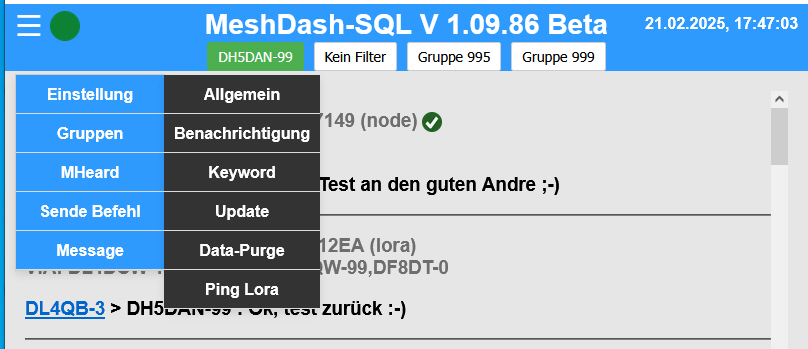
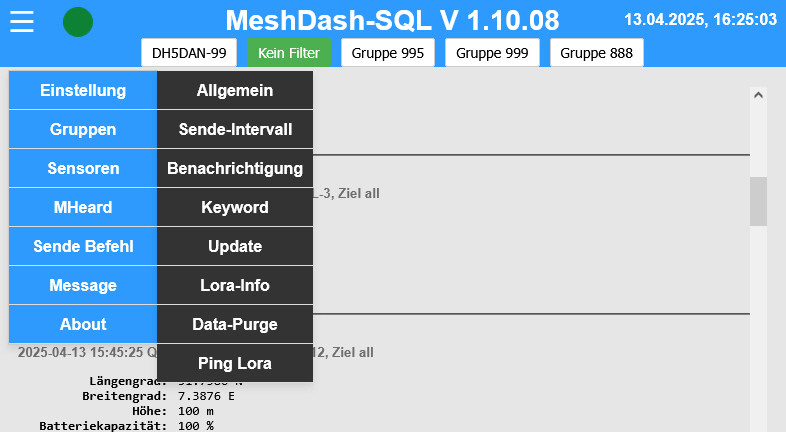
FEATURE Anpassung Redme.md

Changed region(s): [[0.0, 0.0, 1.0, 1.0], [0.3664, 0.6017, 0.9466, 0.6304], [0.9466, 0.4585, 0.9771, 0.5444]]

diff --git a/README.md b/README.md
@@ -14,7 +14,7 @@ auf eine webbasierte Plattform bringen soll.
 ![RELEASE](/docs/front_menu.jpg)
 
 Vornehmlich ist die Applikation für Linux ausgelegt, sie ist aber auch  
-unter Windows lauffähig. Hier muss allerdings schon ein funktionierende Webserver  
+unter Windows lauffähig. Hier muss allerdings schon ein funktionierender Webserver  
 mit aktiven PHP-Modulen die nötigt sind vorhanden sein.  
 Hier läuft die App unter Win10 mit einem Apache und PHP >= 7.4.23.
 
@@ -26,8 +26,9 @@ Einige Funktionen von MeshDash:
 - Soundbenachrichtigungen für eigene Nachrichten
 - Update über die Weboberfläche
 - Senden von Befehlen an den Lora
+- Sensorabfragen mit Schwellwertbenachrichtigung
 
-Das Projekt befindet sich derzeit in der **Beta-Phase**, daher können noch Fehler auftreten.  
+Das Projekt ist mittlerweile aus der **Beta-Phase**, doch es können imer mal noch Fehler auftreten.  
 Falls Probleme auftreten, bitte im Issue-Bereich von GitHub melden,  
 sofern sie nicht schon dort vorhanden sind.
 
@@ -46,12 +47,13 @@ Die Dateien befinden sich unter **Assets** – bitte darauf klicken, um die List
 ![ASSETS](/docs/assets.jpg)
 
 ### In MeshDash ist nun ein Abruf der aktuellen Release-Version möglich.
+![FILES](/docs/update_menu.jpg)
 ![FILES](/docs/50_md_release_version.jpg)
 
 **Für die Installation sind nur folgende Dateien relevant:**  
 Hier mal ein Beispiel:
-- meshdash-sql_V1.09.76.Beta.zip (Das Hauptprogramm)
-- install.sh (Installation-Skript)
+- meshdash-sql_V1.10.10.zip (Das Hauptprogramm)
+- install.sh (Installation-Skript bei Neuinstallation)
 - update.sh (Das Update-Skript ist optional, da Webupdate vorhanden)
 
 ![FILES](/docs/files.jpg)
@@ -65,25 +67,30 @@ Die **Kurzanleitung.pdf** enthält:
 
 - Ein **kurzes User-Manual** mit Screenshots der Weboberfläche und Erklärungen zu den Menüpunkten.
 
-Diese Datei hilft dir, MeshDash schnell zu installieren und zu nutzen.
+Diese Datei hilft dir, MeshDash schnell zu installieren und zu nutzen.  
+Sie wird in regelmässigen Abständen aktualisiert.
 
 ## Hier noch ein paar Bilder aus den Menüpunkten:
 
 ![FILES](/docs/01_config.jpg)
+![FILES](/docs/01_1_send_queue.jpg)
 ![FILES](/docs/02_alert.jpg)
 ![FILES](/docs/03_keyword.jpg)
 ![FILES](/docs/04_update.jpg)
 ![FILES](/docs/10_groups.jpg)
 ![FILES](/docs/20_mheard.jpg)
 ![FILES](/docs/30_send_command.jpg)
+![FILES](/docs/31_send_command.jpg)
 
 
 ### Nun auch mit Tab-Benachrichtigungen bei neuen Nachrichten.
 ![FILES](/docs/60_desktop_tab_alert.jpg)
 ![FILES](/docs/61_handy_Tab_alert.jpg)
 
-## Noch offene Punkte die auf der To-do-Liste stehen:
+## Noch offene Punkte die u.a. auf der To-do-Liste stehen:
 - MHeard konfigurierbar machen für Request-/Acknowledged Ziele.
+
+### Weitere Featureanfragen stehen unter den ISSUES mit dem TAG Erweiterungen
 
 
   
